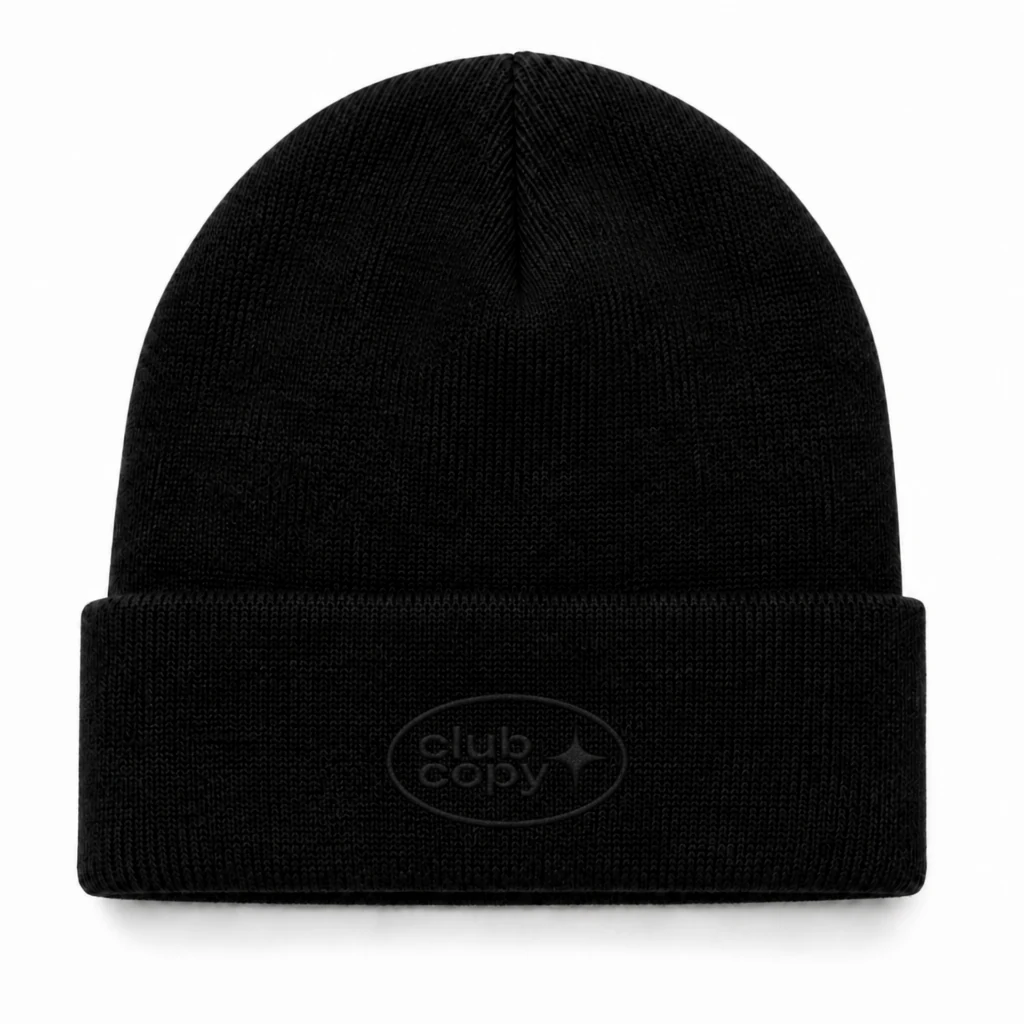
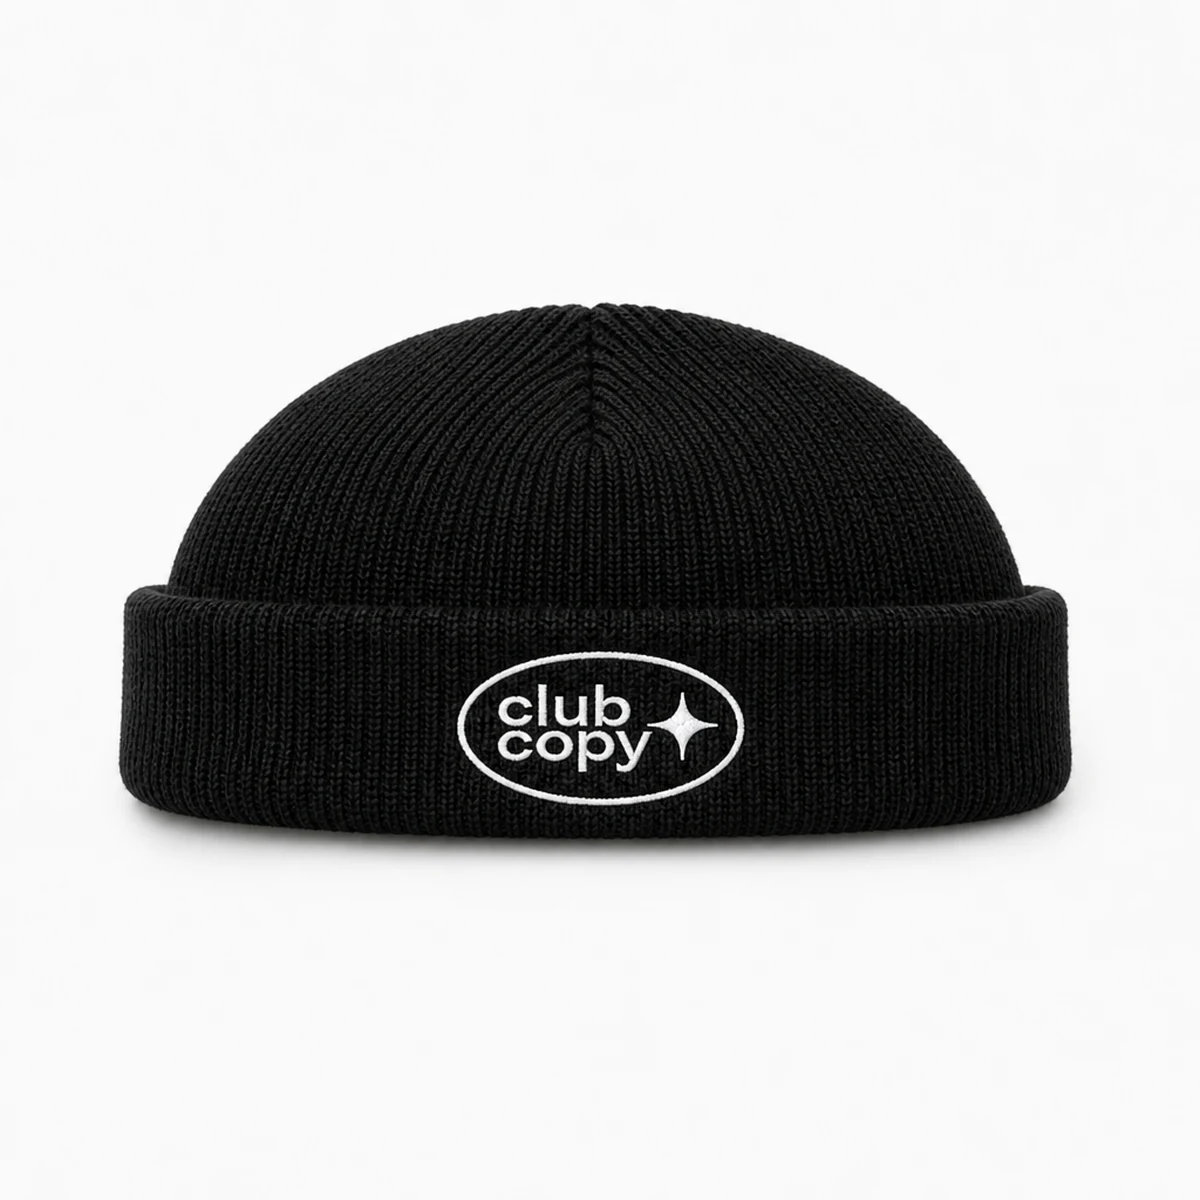
Shop apparel: grey crew, B/W tees, beanie, baby tee
Tighten bikini copy, switch crewneck to heather grey, offer black/white
micro tee and long sleeve, refresh beanie with a short white-logo knit,
and add a women’s baby tee to clothing.

diff --git a/merch.html b/merch.html
@@ -556,12 +556,12 @@
               <h3 class="product-name">Micro Tee</h3>
               <p class="product-price">$32</p>
             </div>
-            <p class="product-note">A heavyweight cotton blank with a small chest mark. Soft hand, clean cut — the everyday piece done properly.</p>
+            <p class="product-note">Heavyweight cotton. Small chest logo. Black or white.</p>
             <div class="opt-block">
               <span class="opt-label">Colour</span>
               <div class="merch-options">
                 <button class="merch-opt selected" data-group="simple-tee-colour" data-img="merch/club-copy/prod-simple-tee-black.jpg">Black</button>
-                <button class="merch-opt" data-group="simple-tee-colour" data-img="merch/club-copy/prod-simple-tee-cream.jpg">Cream</button>
+                <button class="merch-opt" data-group="simple-tee-colour" data-img="merch/club-copy/prod-simple-tee-white.jpg">White</button>
               </div>
             </div>
             <div class="opt-block">
@@ -579,14 +579,21 @@
 
         <article class="product merch-card" data-sku="sm-longsleeve" data-name="Long Sleeve" data-price="42">
           <div class="product-visual">
-            <img src="merch/club-copy/prod-longsleeve.jpg" alt="Long Sleeve" loading="lazy"/>
+            <img id="img-longsleeve" src="merch/club-copy/prod-longsleeve.jpg" alt="Long Sleeve"/>
           </div>
           <div class="product-body">
             <div class="product-top">
               <h3 class="product-name">Long Sleeve</h3>
               <p class="product-price">$42</p>
             </div>
-            <p class="product-note">The same micro chest logo, now on a long sleeve. Heavyweight cotton with a relaxed, considered fit.</p>
+            <p class="product-note">Same micro chest logo, long sleeve cut. Black or white.</p>
+            <div class="opt-block">
+              <span class="opt-label">Colour</span>
+              <div class="merch-options">
+                <button class="merch-opt selected" data-group="longsleeve-colour" data-img="merch/club-copy/prod-longsleeve.jpg">Black</button>
+                <button class="merch-opt" data-group="longsleeve-colour" data-img="merch/club-copy/prod-longsleeve-white.jpg">White</button>
+              </div>
+            </div>
             <div class="opt-block">
               <span class="opt-label">Size</span>
               <div class="merch-options">
@@ -646,16 +653,39 @@
           </div>
         </article>
 
+        <article class="product merch-card" data-sku="sm-womens-top" data-name="Baby Tee" data-price="34">
+          <div class="product-visual">
+            <img src="merch/club-copy/prod-womens-top.jpg" alt="Baby Tee" loading="lazy"/>
+          </div>
+          <div class="product-body">
+            <div class="product-top">
+              <h3 class="product-name">Baby Tee</h3>
+              <p class="product-price">$34</p>
+            </div>
+            <p class="product-note">Cropped black tee. Small white oval. Soft cotton, close cut.</p>
+            <div class="opt-block">
+              <span class="opt-label">Size</span>
+              <div class="merch-options">
+                <button class="merch-opt selected" data-group="womens-top-size">XS</button>
+                <button class="merch-opt" data-group="womens-top-size">S</button>
+                <button class="merch-opt" data-group="womens-top-size">M</button>
+                <button class="merch-opt" data-group="womens-top-size">L</button>
+              </div>
+            </div>
+            <button class="merch-add" type="button">Add to bag</button>
+          </div>
+        </article>
+
         <article class="product merch-card" data-sku="sm-crewneck" data-name="Crewneck" data-price="58">
           <div class="product-visual">
-            <img src="merch/club-copy/prod-crewneck.jpg" alt="Crewneck" loading="lazy"/>
+            <img src="merch/club-copy/prod-crewneck.jpg" alt="Grey Crewneck" loading="lazy"/>
           </div>
           <div class="product-body">
             <div class="product-top">
               <h3 class="product-name">Crewneck</h3>
               <p class="product-price">$58</p>
             </div>
-            <p class="product-note">A heavyweight fleece crew with the logo centred on the chest. Soft, balanced, and free of fuss.</p>
+            <p class="product-note">Heather grey fleece. Centre logo. Soft, balanced, no fuss.</p>
             <div class="opt-block">
               <span class="opt-label">Size</span>
               <div class="merch-options">
@@ -685,14 +715,14 @@
 
         <article class="product merch-card" data-sku="sm-beanie" data-name="Beanie" data-price="30">
           <div class="product-visual">
-            <img src="merch/club-copy/prod-beanie.webp" alt="Beanie" loading="lazy"/>
+            <img src="merch/club-copy/prod-beanie.webp" alt="Fisherman beanie with Club Copy logo" loading="lazy"/>
           </div>
           <div class="product-body">
             <div class="product-top">
               <h3 class="product-name">Beanie</h3>
               <p class="product-price">$30</p>
             </div>
-            <p class="product-note">A fine-gauge cuffed beanie with a small black embroidered Club Copy mark. Quiet, warm, and built for the coast.</p>
+            <p class="product-note">Short fisherman knit. White oval logo on the cuff.</p>
             <button class="merch-add" type="button">Add to bag</button>
           </div>
         </article>
@@ -706,7 +736,7 @@
               <h3 class="product-name">Bikini</h3>
               <p class="product-price">$48</p>
             </div>
-            <p class="product-note">A matte black set with a stencil Club Copy mark. Clean lines, light construction — made for warm weather.</p>
+            <p class="product-note">Matte black. Small oval mark. Warm weather kit.</p>
             <div class="opt-block">
               <span class="opt-label">Size</span>
               <div class="merch-options">
@@ -780,7 +810,8 @@
   syncNav();
 })();
 var MERCH_IMG_MAP = {
-  'simple-tee-colour': document.getElementById('img-simple-tee')
+  'simple-tee-colour': document.getElementById('img-simple-tee'),
+  'longsleeve-colour': document.getElementById('img-longsleeve')
 };
 document.querySelectorAll('.merch-opt').forEach(function (btn) {
   btn.addEventListener('click', function () {

diff --git a/api/create-checkout-session.js b/api/create-checkout-session.js
@@ -17,6 +17,7 @@ const CATALOG = {
   "sm-bikini": { name: "Bikini", unitAmount: 4800 },
   "sm-cap": { name: "Dad Cap", unitAmount: 3600 },
   "sm-beanie": { name: "Beanie", unitAmount: 3000 },
+  "sm-womens-top": { name: "Baby Tee", unitAmount: 3400 },
   "sm-slipmat": { name: "Slipmat Pair", unitAmount: 2200 },
   "sm-sticker-pack": { name: "Logo Sticker Pack", unitAmount: 800 },
   "sm-poster": { name: "Chrome Logo Poster", unitAmount: 2000 },
